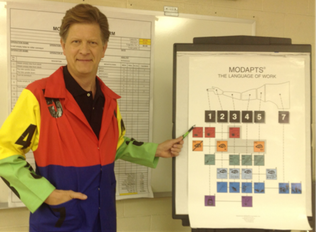
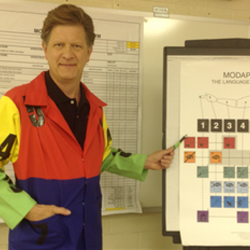
changed images

diff --git a/index.html b/index.html
@@ -156,7 +156,7 @@
                     <!-- Magistral 1 -->
                     <div class="col-xs-6 col-md-3 bg-green">
                         <br>
-                        <img src="img/conf1.png" class="img-responsive img-rounded"/>
+                        <img src="img/conf1.jpg" class="img-responsive img-rounded"/>
                         <div class="text-center">
                             <br>
                             <p class="text-primary">Rodrigo Ocejo - Director y fundador de Kuspit</p>
@@ -219,7 +219,7 @@
                     <!-- Magistral 3 -->
                     <div class="col-xs-6 col-md-3 bg-red">
                     <br>
-                        <img src="img/conf3.png" class="img-responsive img-rounded"/>
+                        <img src="img/conf3.jpg" class="img-responsive img-rounded"/>
                         <div class="text-center">
                             <br>
                             <p class="text-primary">Fernando Madeira de Toledo - Director Industrial Pirelli MX</p>
